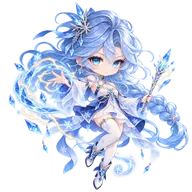
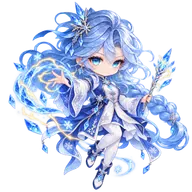
Make Suncall outfit more modest

diff --git a/sw.js b/sw.js
@@ -1,4 +1,4 @@
-const CACHE_VERSION = "zombie-survival-v41";
+const CACHE_VERSION = "zombie-survival-v42";
 const CORE_CACHE = `${CACHE_VERSION}-core`;
 const RUNTIME_CACHE = `${CACHE_VERSION}-runtime`;
 
